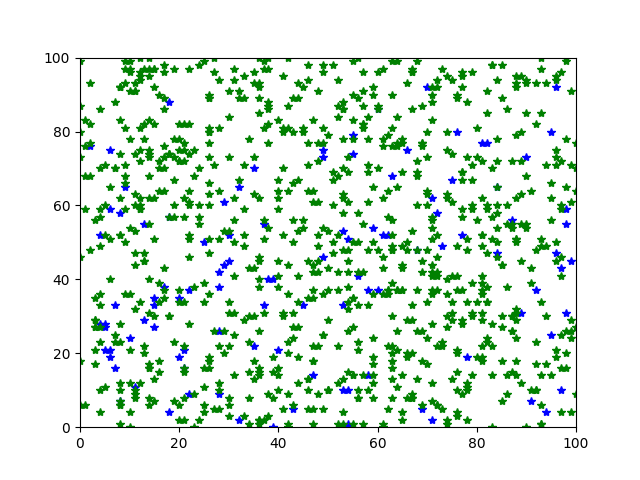
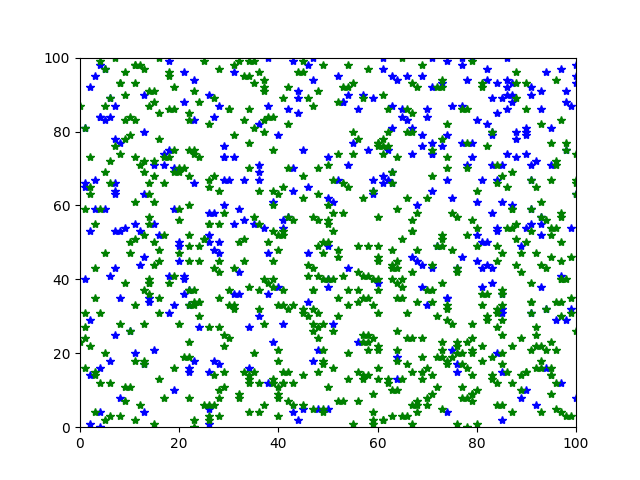
All Done

Changed region(s): [[0.125, 0.125, 0.9062, 0.9062]]

diff --git a/Home_Problem_1.3.py b/Home_Problem_1.3.py
@@ -5,29 +5,45 @@ if __name__=="__main__":
     recoveryRate=0.005
     populationSize=1000
     gridSize=100
-    transmissionRate = 0.2
+    transmissionRate = 0.4
 
     diffusionRate=0.3
-    initialNumberOfInfected=200
-    population = initializePopulation(populationSize, gridSize)
-    infected=population[:initialNumberOfInfected,:initialNumberOfInfected].tolist()
-    susceptibles=population[:,initialNumberOfInfected:].tolist()
-    recovered=[[],[]]
+    initialNumberOfInfected=10
+    recoverySettingsRate = []
+    correspondingRecovered = []
 
-    plt.ion()
+    for i in range(20):
+        recoverySettingsRate.append(recoveryRate*(i+1))
+        population = initializePopulation(populationSize, gridSize)
+        infected=population[:initialNumberOfInfected,:initialNumberOfInfected].tolist()
+        susceptibles=population[:,initialNumberOfInfected:].tolist()
+        recovered=[[],[]]
 
-    time=[0]
-    numberOfSusceptible = [len(susceptibles[0])]
-    numberOfInfected=[len(infected[0])]
-    numberOfRecovered=[len(recovered[0])]
+        averageRecovered = []
 
-    fig2, ax2 = plt.subplots()
-    plt.xlabel('Time')
-    plt.ylabel('Population')
-    plt.title(r'$\beta =$' + str(transmissionRate) + '$,\ \gamma = 0.005$ , populationSize = 1000')
-    ax2.set_ylim(0, 1000)
-    ax2.set_xlim(0, 10000)
-    h4, = ax2.plot(time, numberOfSusceptible, 'b-', label='Susceptible')
-    h5, = ax2.plot(time, numberOfInfected, 'r-', label='Infected')
-    h6, = ax2.plot(time, numberOfRecovered, 'g-', label='Recovered')
-    plt.legend(handles=[h4, h5, h6], loc=1)
+        for j in range(20):
+            while len(infected[0])>0:
+                (infected, susceptibles, recovered) = diseaseSpreading(infected, susceptibles, recovered, transmissionRate,
+                                                                       recoverySettingsRate[-1])
+                infected= updatePositions(infected, diffusionRate, gridSize)
+                susceptibles = updatePositions(susceptibles, diffusionRate, gridSize)
+                recovered = updatePositions(recovered, diffusionRate, gridSize)
+            averageRecovered.append(len(recovered[0]))
+        correspondingRecovered.append(sum(averageRecovered)/len(averageRecovered))
+
+    plotValues = [x / transmissionRate for x in recoverySettingsRate]
+
+    fig =plt.figure(figsize=[16,9])
+    h1, = plt.plot(plotValues, correspondingRecovered, 'g-', label='Recovered')
+
+    Rinf=sum(correspondingRecovered[-5:])/5
+    plt.plot([0.05,0.5],[Rinf,Rinf],'r')
+    plt.text(0.01,Rinf,r'$R_\infty$ = %1.1f' % Rinf)
+
+    plt.xlabel(r'$\beta/\gamma$',fontsize=14)
+    plt.ylabel(r'$R_\infty$',fontsize=14)
+    plt.title(r'Test with different values of recovery rates $\beta$=%1.1f' %transmissionRate)
+    plt.legend(handles=[h1], loc=1)
+    fig.savefig('Plotfor1.3_Beta%1.1f.png' %transmissionRate)
+    plt.show()
+

diff --git a/Home_Problem_1.4.py b/Home_Problem_1.4.py
@@ -1,0 +1,60 @@
+from Home_Problem_1 import *
+from mpl_toolkits.mplot3d import Axes3D
+
+if __name__=="__main__":
+    # Denna ska skrivas om till att ha många olika värden. Det är så jag kommer kunna få rätt data.
+    recoveryRate=0.005
+    populationSize=1000
+    gridSize=100
+    transmissionRate = 0.1
+
+    diffusionRate=0.3
+    initialNumberOfInfected=10
+    #transmissionRateSettings = []
+    correspondingRecovered = []
+    #initialSpread=[]
+    numberOfIndexes=3
+    transmissionRateSettings=np.linspace(0.1,0.5,numberOfIndexes)
+    initialSpread=np.linspace(10,210,numberOfIndexes)
+    xv,yv=np.meshgrid(initialSpread,transmissionRateSettings)
+    correspondingRecovered=np.empty([numberOfIndexes,numberOfIndexes])
+    for k in range(len(xv)):
+        for i in range(len(yv)):
+            population = initializePopulation(populationSize, gridSize)
+            print(xv[k][i])
+            infected=population[:int(xv[k][i]),:int(xv[k][i])].tolist()
+            susceptibles=population[:,int(xv[k][i]):].tolist()
+            recovered=[[],[]]
+
+            averageRecovered = []
+
+            for j in range(20):
+                while len(infected[0])>0:
+                    (infected, susceptibles, recovered) = diseaseSpreading(infected, susceptibles, recovered, yv[k][i],
+                                                                           recoveryRate)
+                    infected= updatePositions(infected, diffusionRate, gridSize)
+                    susceptibles = updatePositions(susceptibles, diffusionRate, gridSize)
+                    recovered = updatePositions(recovered, diffusionRate, gridSize)
+                averageRecovered.append(len(recovered[0]))
+            correspondingRecovered[k][i]=(sum(averageRecovered)/len(averageRecovered))
+
+
+    fig =plt.figure(figsize=[16,9])
+
+    ax = fig.add_subplot(111, projection='3d')
+    #xv,yv=np.meshgrid(transmissionRateSettings,initialSpread)
+    #zv=np.meshgrid(correspondingRecovered,correspondingRecovered)
+    #plt.scatter(transmissionRateSettings,initialSpread,correspondingRecovered)
+    ax.plot_surface(xv,yv, correspondingRecovered)
+    #plt.contour(transmissionRateSettings,initialSpread,correspondingRecovered,antialiased=True)
+    # plt.plot([0.05,0.5],[Rinf,Rinf],'r')
+    # plt.text(0.01,Rinf,r'$R_\infty$ = %1.1f' % Rinf)
+
+    plt.xlabel('initialSpread',fontsize=14)
+    plt.ylabel('transmissionRateSettings',fontsize=14)
+    ax.zlabel('correspondingRecovered',fontsize=14)
+    # plt.title(r'Test with different values of recovery rates $\beta$=%1.1f' %transmissionRate)
+    #plt.legend(handles=[h1], loc=1)
+    #fig.savefig('Plotfor1.3_Beta%1.1f.png' %transmissionRate)
+    plt.show()
+

diff --git a/Home_Problem_1.py b/Home_Problem_1.py
@@ -114,7 +114,7 @@ if __name__=="__main__":
         numberOfSusceptible.append(len(susceptibles[0]))
         numberOfInfected.append(len(infected[0]))
         numberOfRecovered.append(len(recovered[0]))
-        if time[-1]%1==0:
+        if time[-1]%100==0:
             h1.set_xdata(susceptibles[0])
             h1.set_ydata(susceptibles[1])
             h2.set_xdata(infected[0])
@@ -132,7 +132,7 @@ if __name__=="__main__":
             #writer.grab_frame()
 
             plt.draw()
-            plt.pause(0.01)
+            plt.pause(0.1)
     h1.set_xdata(susceptibles[0])
     h1.set_ydata(susceptibles[1])
     h2.set_xdata(infected[0])
